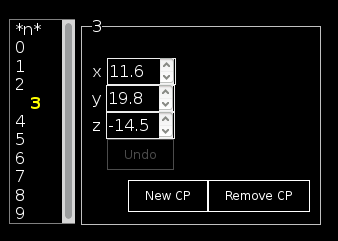
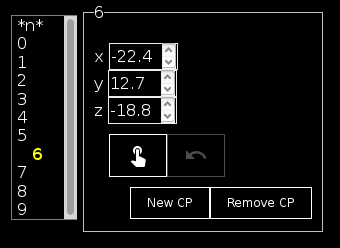
Updated user documentation

Changed region(s): [[0.0296, 0.029, 0.9467, 0.9585], [0.5325, 0.61, 0.6213, 0.639]]

diff --git a/doc/user/index.html b/doc/user/index.html
@@ -514,7 +514,20 @@ different colors in the scene:</p>
 </blockquote>
 <p>A control point is saved whenever its edition is quitted. When position was
 changed, the former version is on the scene in red color while the one to
-be saved is in green. The former may be recovered by pressing the <em>Undo</em> button.</p>
+be saved is in green. The former may be recovered by pressing the <em>Undo</em> button,
+marked with an arrow.</p>
+<p>Position may be edited manually by using the given fields. As well, by clicking
+on the <em>Drag and Drop</em> button, marked with a pointer. This option will disable
+the manual fields while allowing an interactive edition in the scene itself.</p>
+<img alt="img/draganddrop.png" class="align-center" src="img/draganddrop.png" />
+<p>The interactive edition allows different liberty grades:</p>
+<blockquote>
+<ul class="simple">
+<li><em>Axes</em>, by using the arrows shown.</li>
+<li><em>Planes</em>, by dragging the planes formed between the arrows.</li>
+<li><em>The screen plane</em>, by clicking directly on the point.</li>
+</ul>
+</blockquote>
 <p><em>New CP</em> button creates a new control point. It is to be
 placed in the mid-point between the current and the next one. <em>Remove CP</em>
 removes the current control point after asking for confirmation.</p>
@@ -564,6 +577,9 @@ Web Designer for further edition.</p>
 </tr>
 <tr><td>P</td>
 <td>Switch preview mode</td>
+</tr>
+<tr><td>D</td>
+<td>Switch drag and drop controls</td>
 </tr>
 <tr><td>A</td>
 <td>Switch axes</td>

diff --git a/doc/user/source.rst b/doc/user/source.rst
@@ -165,7 +165,22 @@ different colors in the scene:
 
 A control point is saved whenever its edition is quitted. When position was
 changed, the former version is on the scene in red color while the one to
-be saved is in green. The former may be recovered by pressing the *Undo* button.
+be saved is in green. The former may be recovered by pressing the *Undo* button,
+marked with an arrow.
+
+Position may be edited manually by using the given fields. As well, by clicking
+on the *Drag and Drop* button, marked with a pointer. This option will disable
+the manual fields while allowing an interactive edition in the scene itself.
+
+.. image:: img/draganddrop.png
+    :align: center
+
+The interactive edition allows different liberty grades:
+
+  - *Axes*, by using the arrows shown.
+  - *Planes*, by dragging the planes formed between the arrows.
+
+  - *The screen plane*, by clicking directly on the point.
 
 *New CP* button creates a new control point. It is to be
 placed in the mid-point between the current and the next one. *Remove CP*
